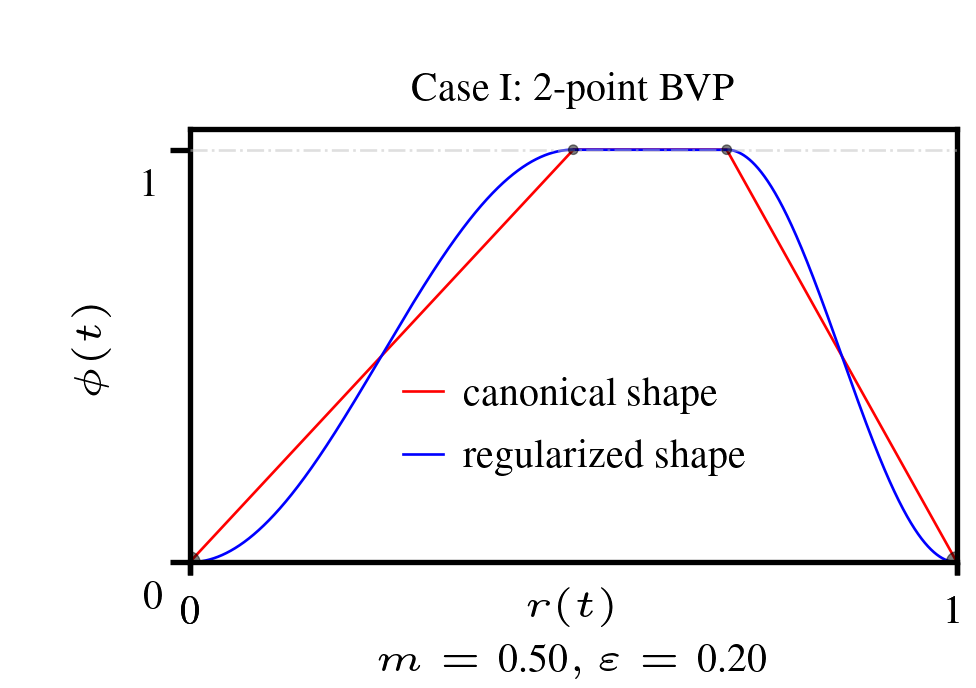
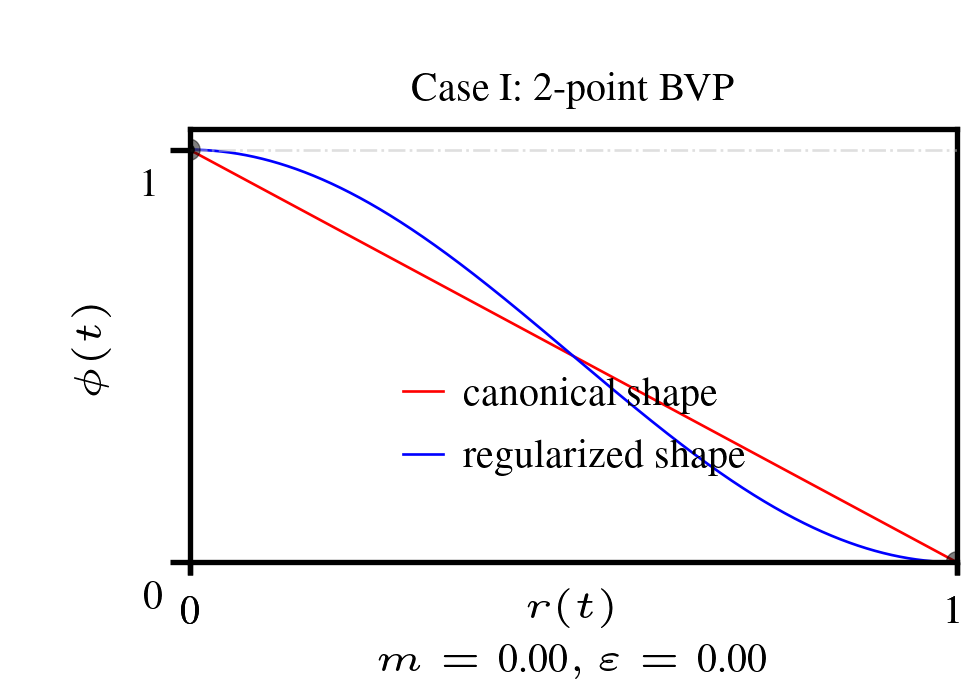
add figs.

diff --git a/case1_anim.py b/case1_anim.py
@@ -427,9 +427,9 @@ handles2 = []
 handles3 = []
 
 # Config.
-m=0.5
+m=0
 p=1
-e=0.2
+e=0
 
 
 def addplt_case1(r, m, e):

diff --git a/case2_anim.py b/case2_anim.py
@@ -429,9 +429,9 @@ handles2 = []
 handles3 = []
 
 # Config.
-m=0.5
+m=0
 p=1
-e=0.2
+e=0
 
 
 def addplt_case2(r, m, e):

diff --git a/README.md b/README.md
@@ -61,7 +61,7 @@ Two cases are provided based on variational energy minimization.
 *Goal*: Minimize the total first-order variational energy functional of the expected step-size magnitude subject to at least, boundary value constraints `y(0)=1, y(1)=0`.
 
 <p align="center">
-<img src="figures/bvp_case1_plt.gif" width="300"
+<img src="figures/bvp_case1_plt.png" width="300"
 </p>
 
 #### p-th root Linear window
@@ -89,7 +89,6 @@ schedule = endpt(case1_rcos(bvp_prof(r)))
 ```
 
 This is the regularized version derived by minimizing a Tikhonov regularized total first-order variational energy functional of the expected step-size magnitude.
-
 
 *Remarks*: These windows are the smoothest over the normalized domain with respect to the total first-order variational energy functional of the expected step-size magnitude, and provide a template for optimizer step-size control and derivation of existing popular schedules
 
@@ -126,6 +125,11 @@ schedule =  endpt(case2_rcos(bvp_prof(r)))
 Similarly, this window shape is derived by adding Tikhonov regularization to the energy functional.
 
 *Remarks*: These novel windows additionally maximize the total expected step-size magnitude while remaining smooth over the normalized domain with respect to the total first-order variational energy functional of the expected step-size magnitude.
+
+<p align="center">
+<img src="figures/bvp_case2_plt.png" width="300"
+</p>
+
 
 ## Usage example
 
@@ -370,11 +374,11 @@ python case2_anim.py
 These scripts help visualize profile shape and overall schedule behavior.
 
 <p align="center">
-<img src="figures/bvp_case1_plt.png" width="300"
+<img src="figures/bvp_case1_plt_4.png" width="300"
 </p>
 
 <p align="center">
-<img src="figures/bvp_case2_plt.png" width="300"
+<img src="figures/bvp_case2_plt_6.png" width="300"
 </p>
 
 ## Related work and citation
